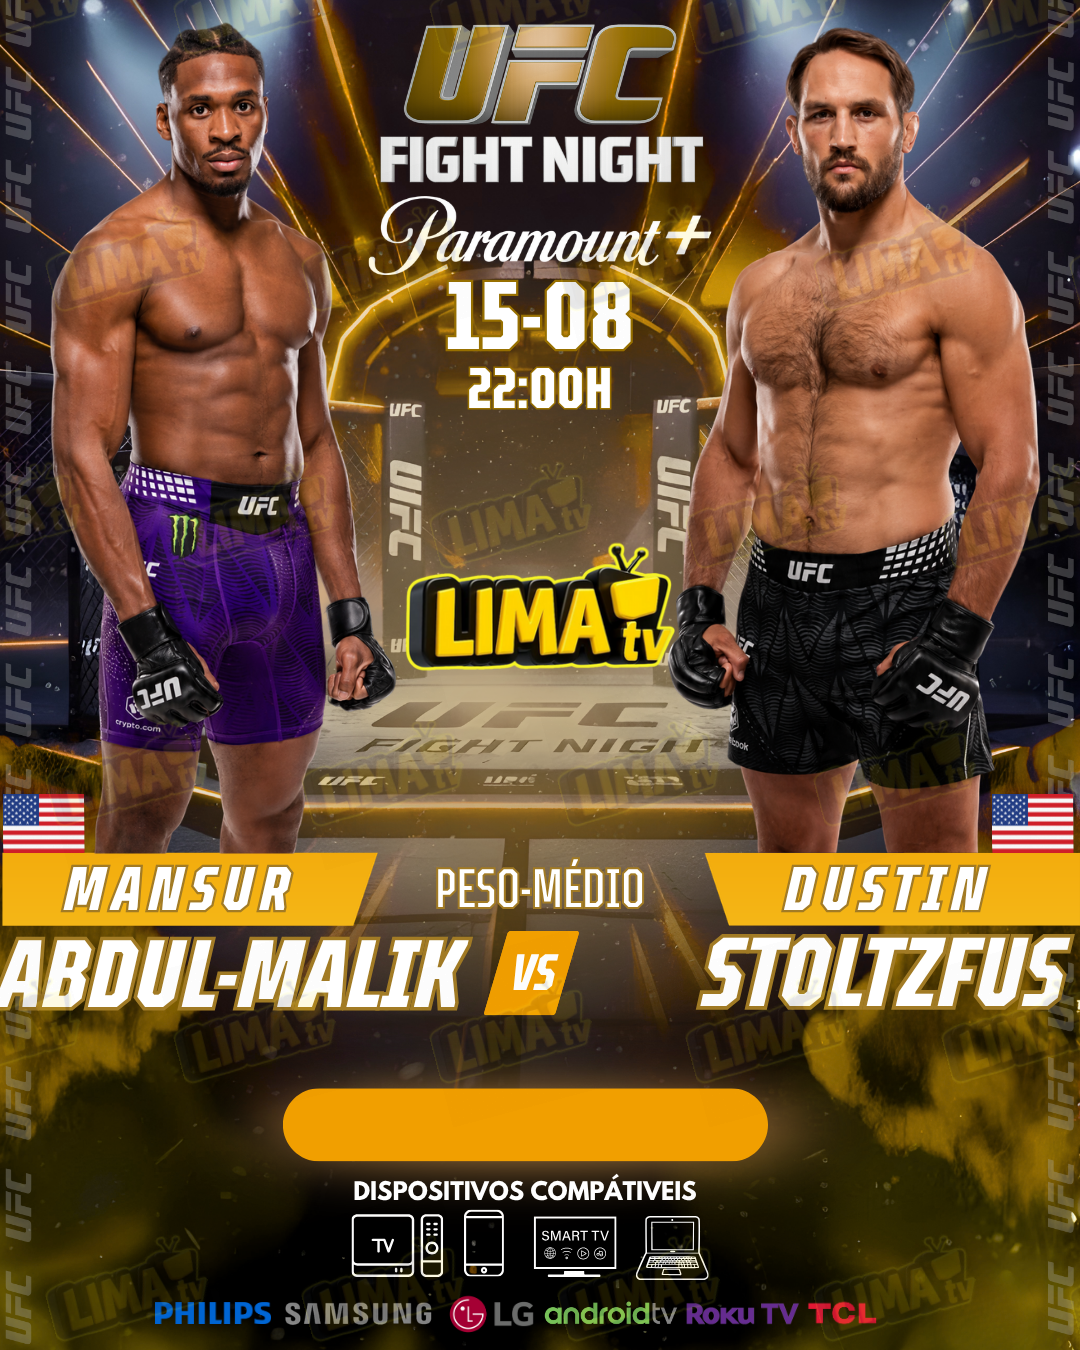
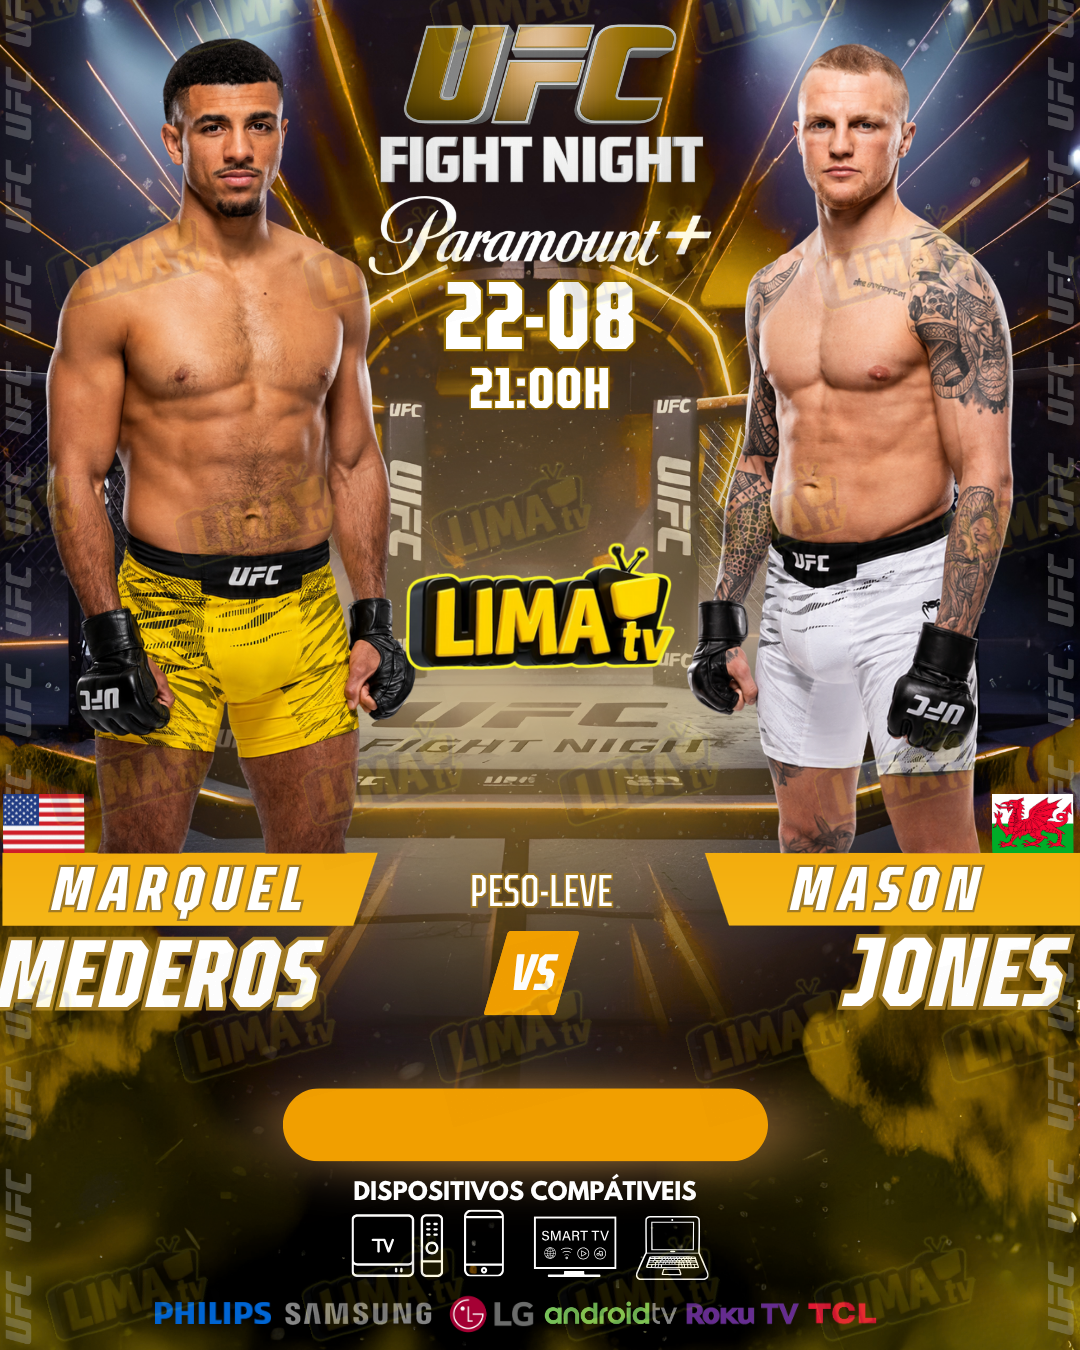
atualizacao 22/08/2026v1

Changed region(s): [[0.0, 0.0, 0.6111, 0.7467], [0.6111, 0.0, 1.0, 0.7467], [0.3972, 0.1867, 0.6111, 0.3111]]

diff --git a/index.html b/index.html
@@ -129,7 +129,7 @@
           <div class="container-imagens">
             <div>
               <img
-                src="futebol/capa_com_logo.png?v=21/08/06"
+                src="futebol/capa_com_logo.png?v=22/08/06"
                 alt="Jogos de futebol de hoje com horários e onde assistir"
                 width="300"
                 height="400"
@@ -140,7 +140,43 @@
 
             <div>
               <img
-                src="futebol/banner_1.png?v=21/08/06"
+                src="futebol/banner_1.png?v=22/08/06"
+                alt="Jogos de futebol de hoje com horários e onde assistir"
+                width="300"
+                height="400"
+                loading="lazy"
+              />
+              <button class="btn-fullscreen">Ver em Tela Cheia</button>
+            </div>
+
+            
+            <div>
+              <img
+                src="futebol/banner_2.png?v=22/08/06"
+                alt="Jogos de futebol de hoje com horários e onde assistir"
+                width="300"
+                height="400"
+                loading="lazy"
+              />
+              <button class="btn-fullscreen">Ver em Tela Cheia</button>
+            </div>
+
+            
+            <div>
+              <img
+                src="futebol/banner_3.png?v=22/08/06"
+                alt="Jogos de futebol de hoje com horários e onde assistir"
+                width="300"
+                height="400"
+                loading="lazy"
+              />
+              <button class="btn-fullscreen">Ver em Tela Cheia</button>
+            </div>
+
+            
+            <div>
+              <img
+                src="futebol/banner_4.png?v=22/08/06"
                 alt="Jogos de futebol de hoje com horários e onde assistir"
                 width="300"
                 height="400"
@@ -166,7 +202,7 @@
           <div class="container-imagens">
             <div>
               <img
-                src="nba/capa_com_logo.png?v=04/08"
+                src="nba/capa_com_logo.png?v=22/08"
                 alt="Jogos da NBA hoje com transmissão ao vivo"
                 width="300"
                 height="400"
@@ -177,7 +213,7 @@
 
             <div>
               <img
-                src="nba/banner_1.png?v=04/08"
+                src="nba/banner_1.png?v=22/08"
                 alt="Jogos da NBA hoje com transmissão ao vivo"
                 width="300"
                 height="400"
@@ -197,10 +233,10 @@
 
         <div class="div-imagens">
           <div class="container-imagens">
-            <p>PRÓXIMO GP DA HOLANDA 23/08/2026</p>
-            <!-- <div>
+            <!-- <p>PRÓXIMO GP DA HOLANDA 23/08/2026</p> -->
+            <div>
               <img
-                src="f1/banner_1.png?v=28/07"
+                src="f1/banner_1.png?v=22/08"
                 alt="Jogos da NBA hoje com transmissão ao vivo"
                 width="300"
                 height="400"
@@ -208,7 +244,7 @@
               />
 
               <button class="btn-fullscreen">Ver em Tela Cheia</button>
-            </div> -->
+            </div>
           </div>
         </div>
       </section>
@@ -222,13 +258,13 @@
           vivo.
         </p>
 
-        <p>PRÓXIMO EVENTO DIA 22/08/2026</p>
+        <!-- <p>PRÓXIMO EVENTO DIA 22/08/2026</p> -->
 
         <div class="div-imagens">
           <div class="container-imagens">
-            <!-- <div>
+            <div>
               <img
-                src="ufc/capa_com_logo.png?v=15/08/2026"
+                src="ufc/capa_com_logo.png?v=22/08/2026"
                 alt="Evento UFC hoje com horário e transmissão"
                 width="300"
                 height="400"
@@ -239,14 +275,74 @@
 
             <div>
               <img
-                src="ufc/banner_1.png?v=15/08/2026"
+                src="ufc/banner_1.png?v=22/08/2026"
                 alt="Evento UFC hoje com horário e transmissão"
                 width="300"
                 height="400"
                 loading="lazy"
               />
               <button class="btn-fullscreen">Ver em Tela Cheia</button>
-            </div> -->
+            </div>
+
+            <div>
+              <img
+                src="ufc/banner_2.png?v=22/08/2026"
+                alt="Evento UFC hoje com horário e transmissão"
+                width="300"
+                height="400"
+                loading="lazy"
+              />
+              <button class="btn-fullscreen">Ver em Tela Cheia</button>
+            </div>
+
+            <div>
+              <img
+                src="ufc/banner_3.png?v=22/08/2026"
+                alt="Evento UFC hoje com horário e transmissão"
+                width="300"
+                height="400"
+                loading="lazy"
+              />
+              <button class="btn-fullscreen">Ver em Tela Cheia</button>
+            </div>
+
+            <div>
+              <img
+                src="ufc/banner_4.png?v=22/08/2026"
+                alt="Evento UFC hoje com horário e transmissão"
+                width="300"
+                height="400"
+                loading="lazy"
+              />
+              <button class="btn-fullscreen">Ver em Tela Cheia</button>
+            </div>
+
+            <div>
+              <img
+                src="ufc/banner_5.png?v=22/08/2026"
+                alt="Evento UFC hoje com horário e transmissão"
+                width="300"
+                height="400"
+                loading="lazy"
+              />
+              <button class="btn-fullscreen">Ver em Tela Cheia</button>
+            </div>
+
+            <div>
+              <img
+                src="ufc/banner_6.png?v=22/08/2026"
+                alt="Evento UFC hoje com horário e transmissão"
+                width="300"
+                height="400"
+                loading="lazy"
+              />
+              <button class="btn-fullscreen">Ver em Tela Cheia</button>
+            </div>
+
+
+
+
+            
           </div>
         </div>
       </section>
@@ -264,7 +360,7 @@
           <div class="container-imagens">
             <div>
               <img
-                src="esportes/banner_1.png?=v21/08/2026"
+                src="esportes/banner_1.png?=v22/08/2026"
                 alt="Evento ESPORTES hoje com horário e transmissão"
                 width="300"
                 height="400"
@@ -275,7 +371,7 @@
 
             <div>
               <img
-                src="esportes/banner_2.png?=21/08/2026"
+                src="esportes/banner_2.png?=22/08/2026"
                 alt="Evento ESPORTES hoje com horário e transmissão"
                 width="300"
                 height="400"
@@ -286,7 +382,7 @@
 
             <div>
               <img
-                src="esportes/banner_3.png?=21/08/2026"
+                src="esportes/banner_3.png?=22/08/2026"
                 alt="Evento ESPORTES hoje com horário e transmissão"
                 width="300"
                 height="400"
@@ -297,7 +393,7 @@
 
             <div>
               <img
-                src="esportes/banner_4.png?=21/08/2026"
+                src="esportes/banner_4.png?=22/08/2026"
                 alt="Evento ESPORTES hoje com horário e transmissão"
                 width="300"
                 height="400"
